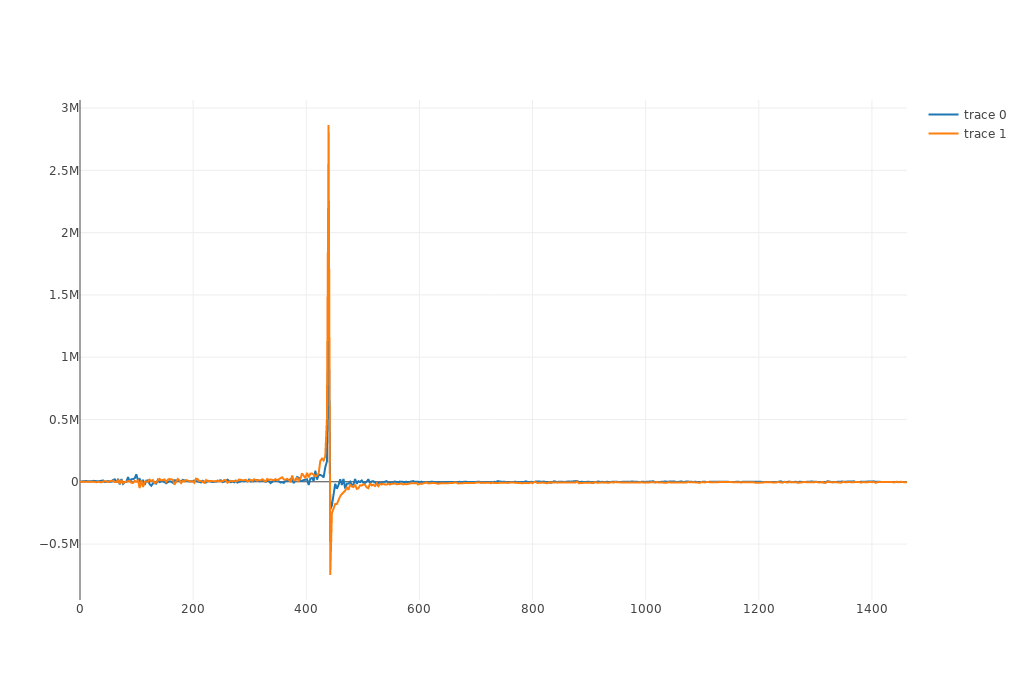
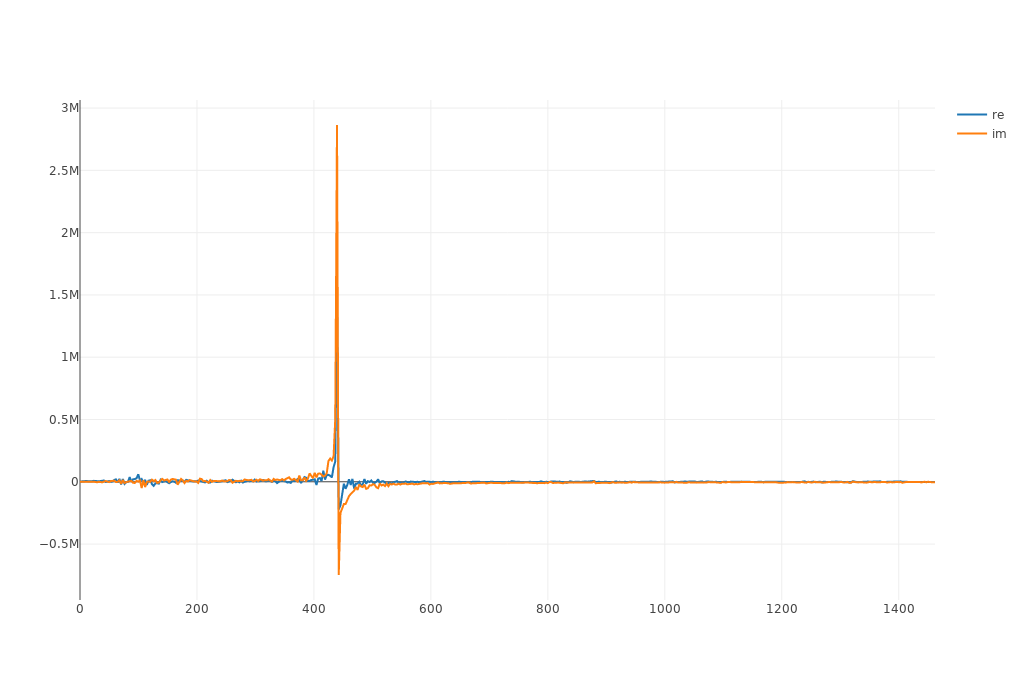
Propper lables for lines in plot

diff --git a/src/main.rs b/src/main.rs
@@ -11,8 +11,8 @@ fn plot_vector(v: &[[f32; 2]; LEN], sample_rate: f64, name: &str) {
     let t: Vec<f64> = linspace(0., sample_rate, LEN).collect();
     let len = 500;
 
-    let trace_re = Scatter::new(t.clone(), v[0..len].iter().map(|n| n[0]));
-    let trace_im = Scatter::new(t, v[0..len].iter().map(|n| n[1]));
+    let trace_re = Scatter::new(t.clone(), v[0..len].iter().map(|n| n[0])).name("re");
+    let trace_im = Scatter::new(t, v[0..len].iter().map(|n| n[1])).name("im");
 
     let mut plot = Plot::new();
     plot.add_trace(trace_re);
